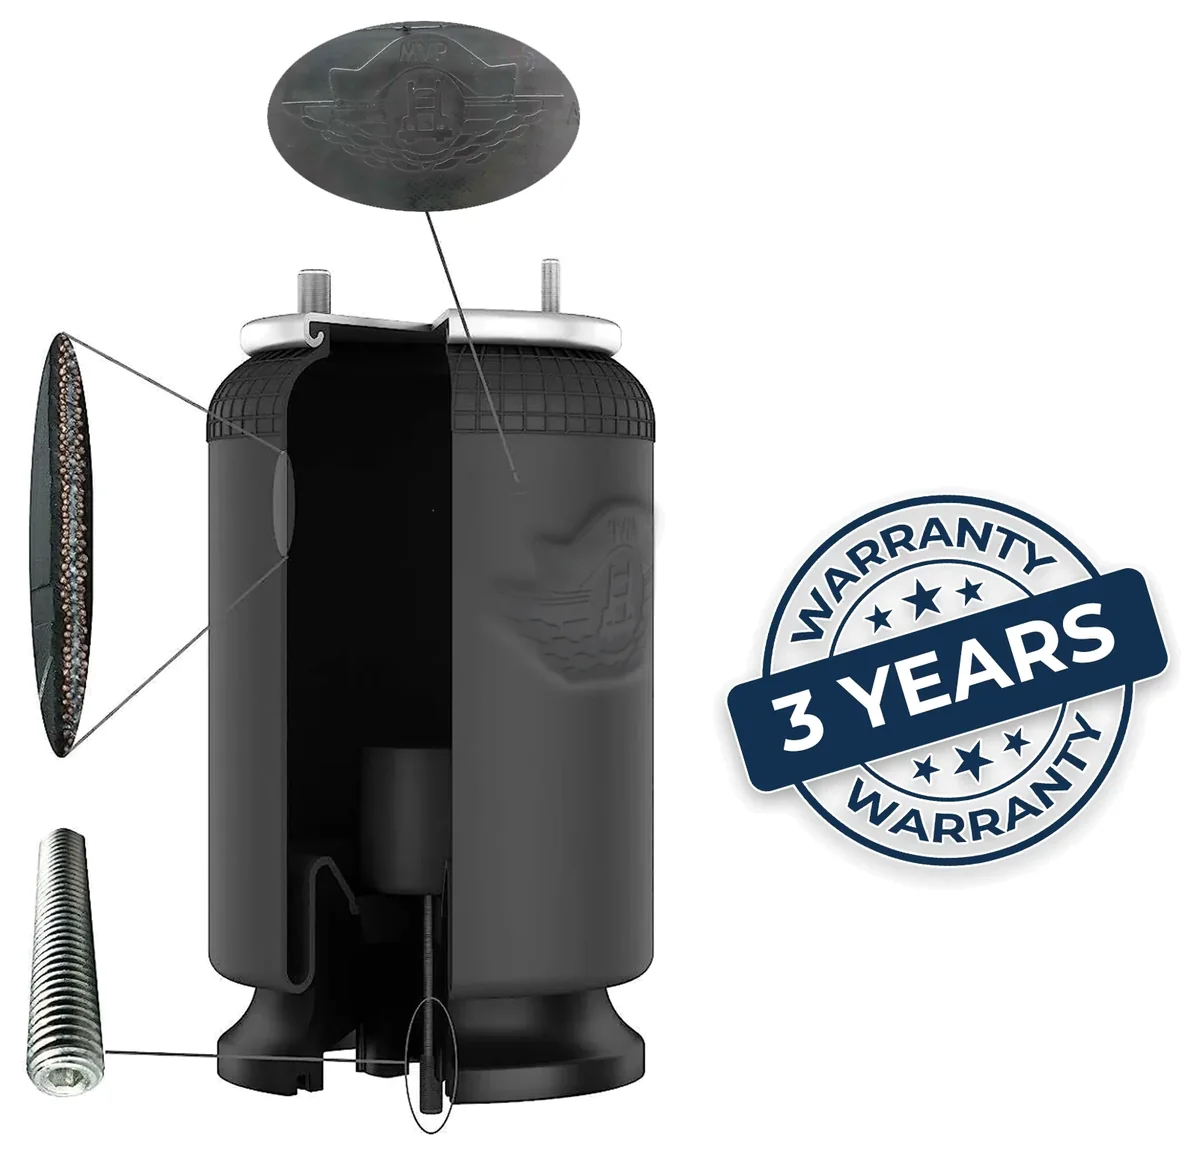
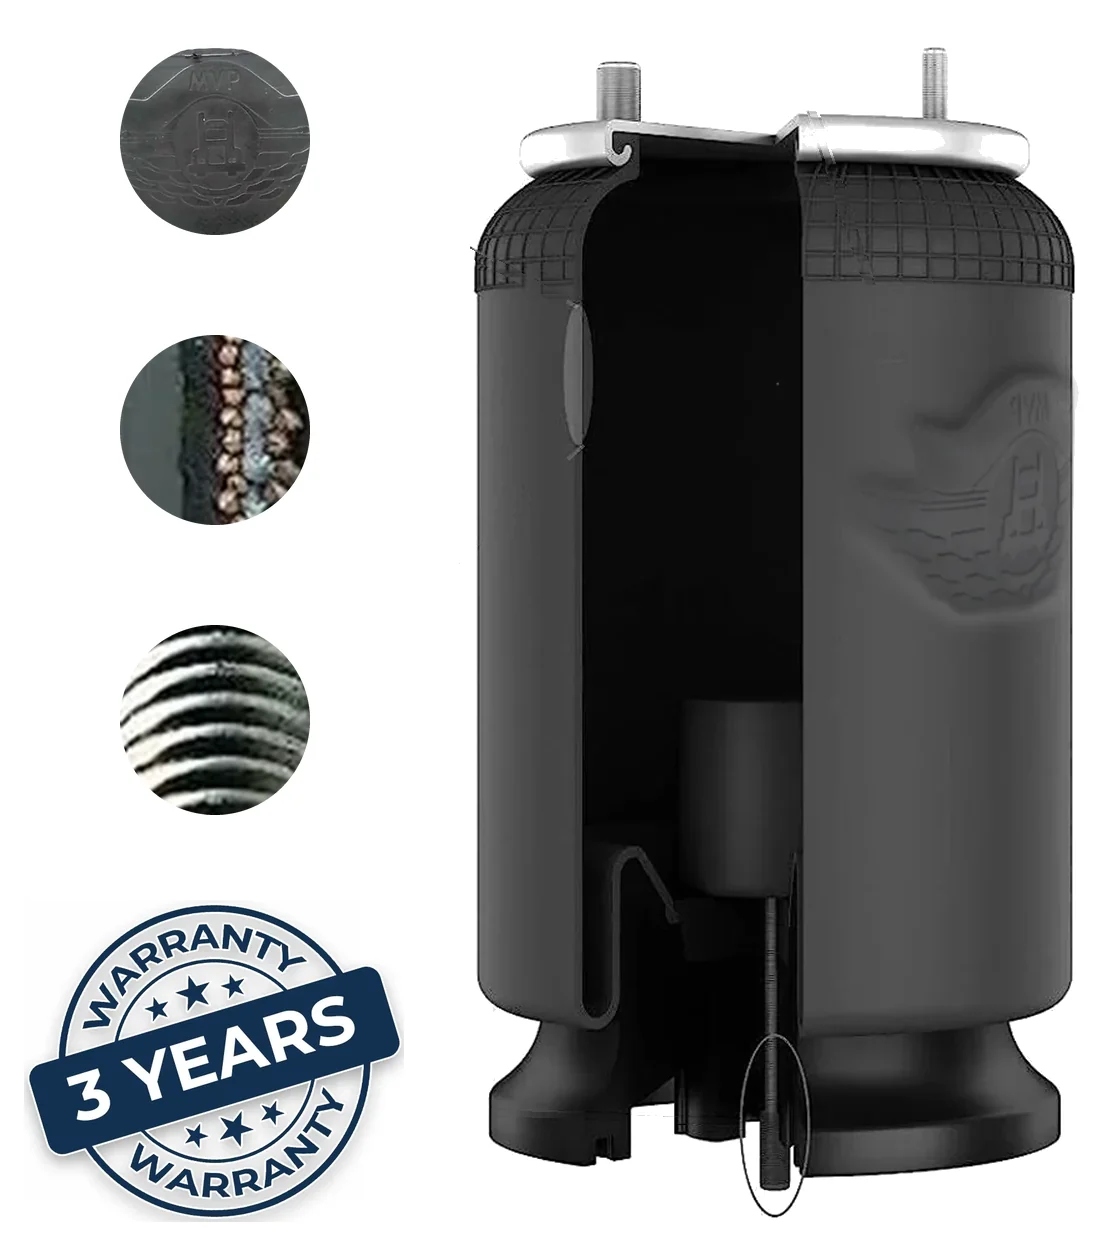
Cutaway section: tidier layout with round close-ups
The old grey leader lines are removed from the air spring. The three
close-ups are now equal circles in a column on the left, the warranty
stamp sits under them, and red leaders and zoom rings (drawn over the
image) tie each close-up to its spot on the spring.

Claude-Session: https://claude.ai/code/session_01J7xySg1UCvVabx4Bmd5aU2

diff --git a/index.html b/index.html
@@ -183,13 +183,22 @@
       <div class="mk-grid">
         <figure class="mk-figure">
           <div class="mk-photo">
-            <img src="assets/inside-air-spring.webp" width="1200" height="1152" loading="lazy" alt="Cutaway of an MVP air spring with close-ups of the molded rubber, the rubber wall and a steel stud, and a 3-year warranty seal">
-            <svg class="mk-leaders" viewBox="0 0 1200 1152" preserveAspectRatio="none" aria-hidden="true"><path d="M206 292L318 334"/></svg>
-            <span class="mk-dot" style="--x:16.7%;--y:4.3%" aria-hidden="true">1</span>
-            <span class="mk-dot" style="--x:2.7%;--y:26%" aria-hidden="true">2</span>
-            <span class="mk-dot" style="--x:2.7%;--y:69%" aria-hidden="true">3</span>
-            <span class="mk-dot" style="--x:17.1%;--y:25.4%" aria-hidden="true">4</span>
-            <span class="mk-dot" style="--x:60.2%;--y:44.1%" aria-hidden="true">5</span>
+            <img src="assets/inside-air-spring.webp" width="1110" height="1240" loading="lazy" alt="Cutaway of an MVP air spring with round close-ups of the molded rubber, the rubber wall in section and a threaded steel stud, and a 3-year warranty seal">
+            <svg class="mk-leaders" viewBox="0 0 1110 1240" preserveAspectRatio="none" aria-hidden="true">
+              <circle class="mk-roundel" cx="215" cy="140" r="95"/>
+              <circle class="mk-roundel" cx="215" cy="430" r="95"/>
+              <circle class="mk-roundel" cx="215" cy="720" r="95"/>
+              <ellipse class="mk-zoom" cx="577" cy="378" rx="16" ry="78"/>
+              <ellipse class="mk-zoom" cx="774.5" cy="1121" rx="33" ry="98"/>
+              <path class="mk-line" d="M306 166L954 431M310 422L561 384M301 762L742 1100M556 108L618 146"/>
+              <circle class="mk-end" cx="958" cy="433" r="6"/>
+              <circle class="mk-end" cx="620" cy="147" r="6"/>
+            </svg>
+            <span class="mk-dot" style="--x:13.3%;--y:5.9%" aria-hidden="true">1</span>
+            <span class="mk-dot" style="--x:13.3%;--y:29.3%" aria-hidden="true">2</span>
+            <span class="mk-dot" style="--x:13.3%;--y:52.7%" aria-hidden="true">3</span>
+            <span class="mk-dot" style="--x:48.6%;--y:8.1%" aria-hidden="true">4</span>
+            <span class="mk-dot" style="--x:7.9%;--y:75%" aria-hidden="true">5</span>
           </div>
         </figure>
         <div class="mk-copy">

diff --git a/css/site.css b/css/site.css
@@ -237,14 +237,19 @@ p { margin: 0 0 1em; }
   .pl-art svg { max-width: 190px; }
 }
 
-/* What goes into an MVP air spring: cutaway image with numbered markers matching the list. */
+/* What goes into an MVP air spring: cutaway with round close-ups; rings, leaders and
+   numbers are drawn over the image so they stay sharp and match the list. */
 .marking { padding-top: 0; }
 .mk-grid { display: grid; grid-template-columns: minmax(0, 1fr) minmax(0, 1fr); align-items: center; gap: clamp(28px, 5vw, 72px); }
 .mk-figure { margin: 0; background: #fff; border: 1px solid var(--rule-strong); padding: clamp(18px, 3vw, 36px); }
 .mk-photo { position: relative; }
 .mk-photo img { width: 100%; height: auto; display: block; }
 .mk-leaders { position: absolute; inset: 0; width: 100%; height: 100%; overflow: visible; }
-.mk-leaders path { fill: none; stroke: var(--red); stroke-width: 1.6; vector-effect: non-scaling-stroke; }
+.mk-leaders * { fill: none; vector-effect: non-scaling-stroke; }
+.mk-leaders .mk-roundel { stroke: var(--navy); stroke-width: 2.5; }
+.mk-leaders .mk-zoom { stroke: var(--red); stroke-width: 2.5; }
+.mk-leaders .mk-line { stroke: var(--red); stroke-width: 1.5; }
+.mk-leaders .mk-end { fill: var(--red); stroke: #fff; stroke-width: 1.5; }
 .mk-dot { position: absolute; left: var(--x); top: var(--y); transform: translate(-50%, -50%); width: 28px; height: 28px;
   display: grid; place-items: center; border-radius: 50%; background: var(--red); color: #fff; border: 2px solid #fff;
   box-shadow: 0 1px 3px rgba(11,22,56,.3); font: 700 .95rem/1 var(--font-display); }
